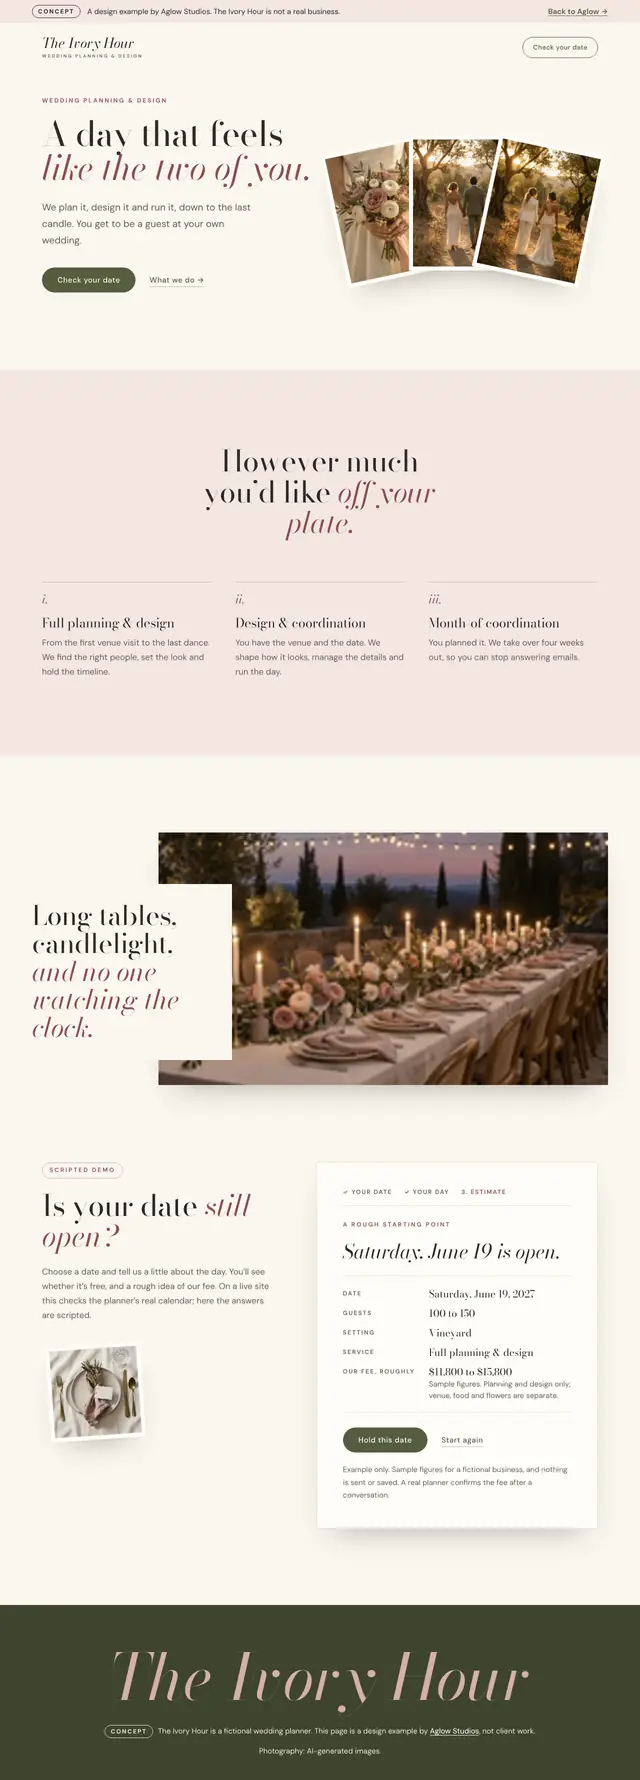
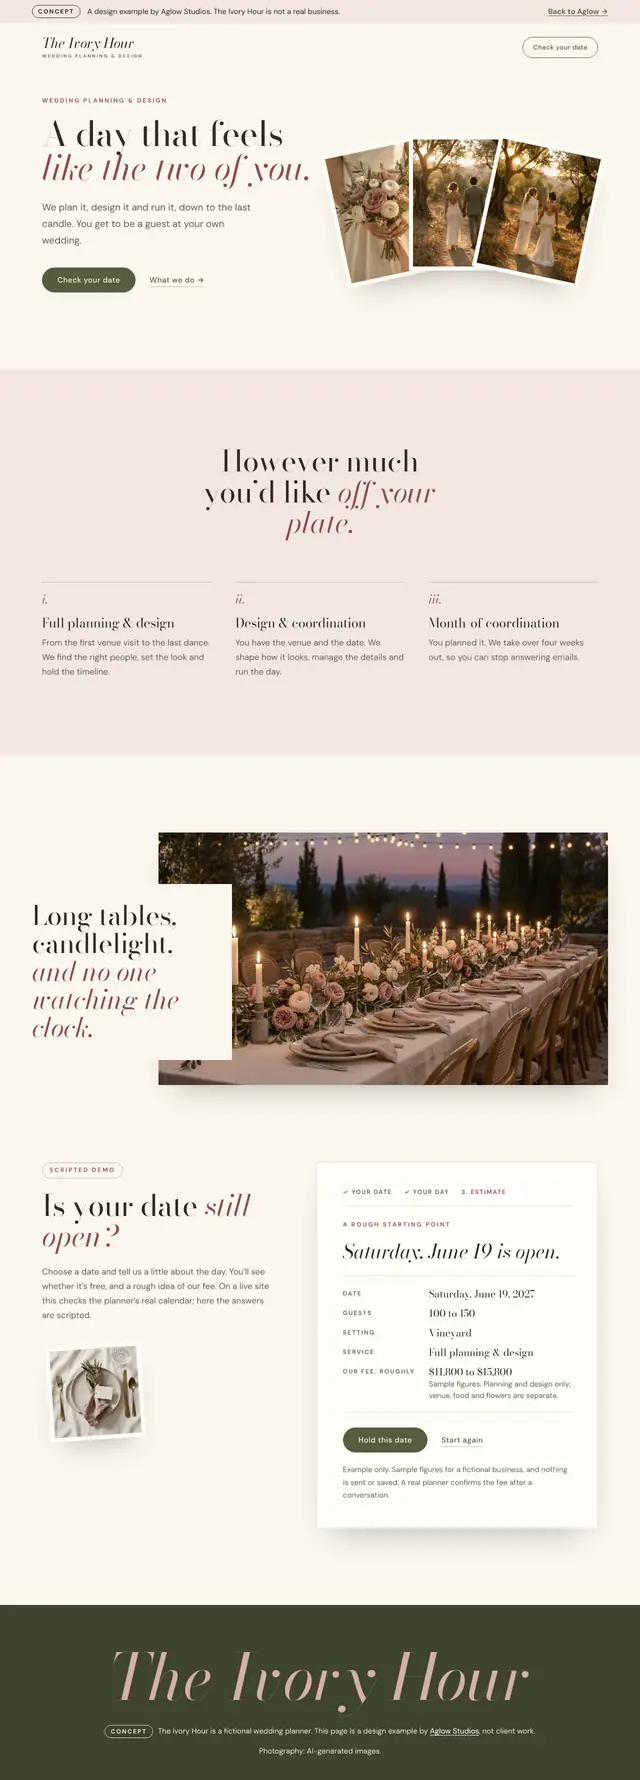
Add photos to The Ivory Hour wedding concept
Claude-Session: https://claude.ai/code/session_01T9UCFzSj2PYM6zzuZZHtkD

diff --git a/CLAUDE.md b/CLAUDE.md
@@ -173,15 +173,12 @@ concept slowly on hover; click opens the live concept page.
   demo in `wedding.js`: date check (the 5th, 10th, 15th... show as taken and
   offer the days either side), then guests, setting and service give a rough
   planning fee from sample ranges. Nothing is sent or saved.
-  Waiting on 5 photos from the owner's Canva, to go in `assets/images/concepts/`:
-  bouquet MAHbkza14WA -> `wedding-bouquet-1000.webp` (4:5), bride and groom
-  MAHbkytwS5w -> `wedding-couple-1000.webp` (4:5), two brides MAHblDkrYtA (the
-  owner's revision: left bride in a suit, different hair; first try
-  MAHblOat6sU was "too alike") -> `wedding-brides-1000.webp` (4:5), table
-  MAHbk63z78o -> `wedding-table-2000.webp` and `-1200.webp` (3:2), place setting
-  MAHbk545TTI -> `wedding-setting-800.webp` (1:1). Until then the frames show
-  labeled placeholders. `card-wedding.webp` was captured with low-res previews
-  standing in: regenerate it once the real photos are in.
+  Photos (Canva, owner-approved, in `assets/images/concepts/`): the fan is
+  `wedding-bouquet-1000.webp`, `wedding-couple-1000.webp` (bride and groom) and
+  `wedding-brides-1000.webp` (two brides; the owner's revision with the left
+  bride in a suit, because the first version looked "too alike"); band
+  `wedding-table-2000.webp` / `-1200.webp`; `wedding-setting-800.webp` beside
+  the demo. If a photo is missing, its frame shows a labeled placeholder.
 - All four planned concepts are built. Home page shows them two by two.
 
 ## Preview
